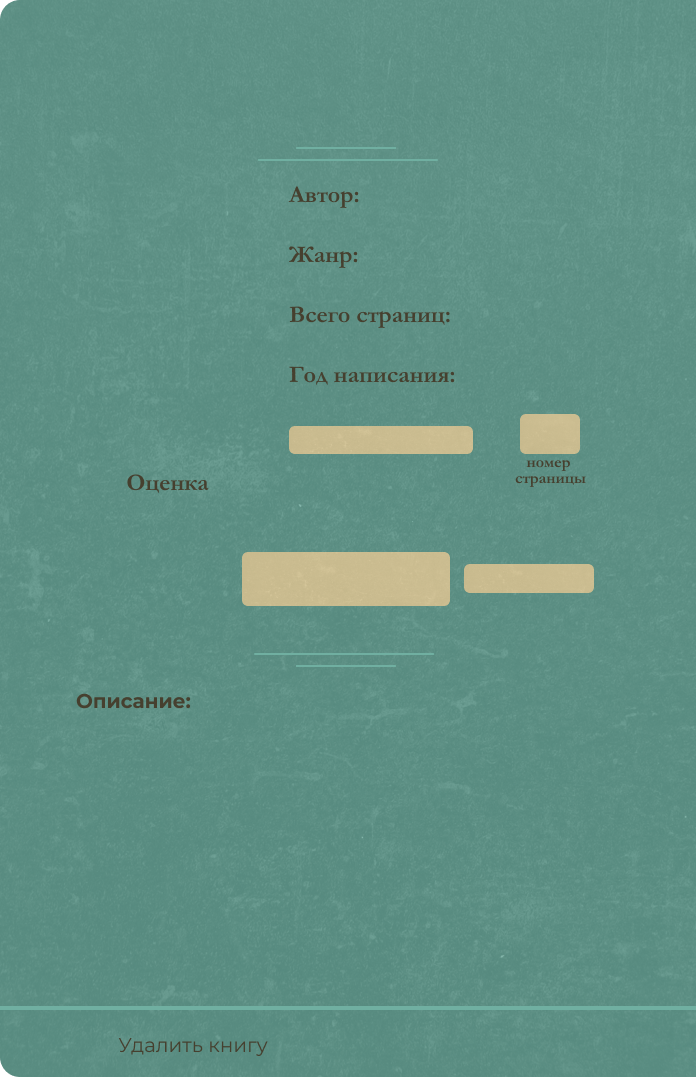
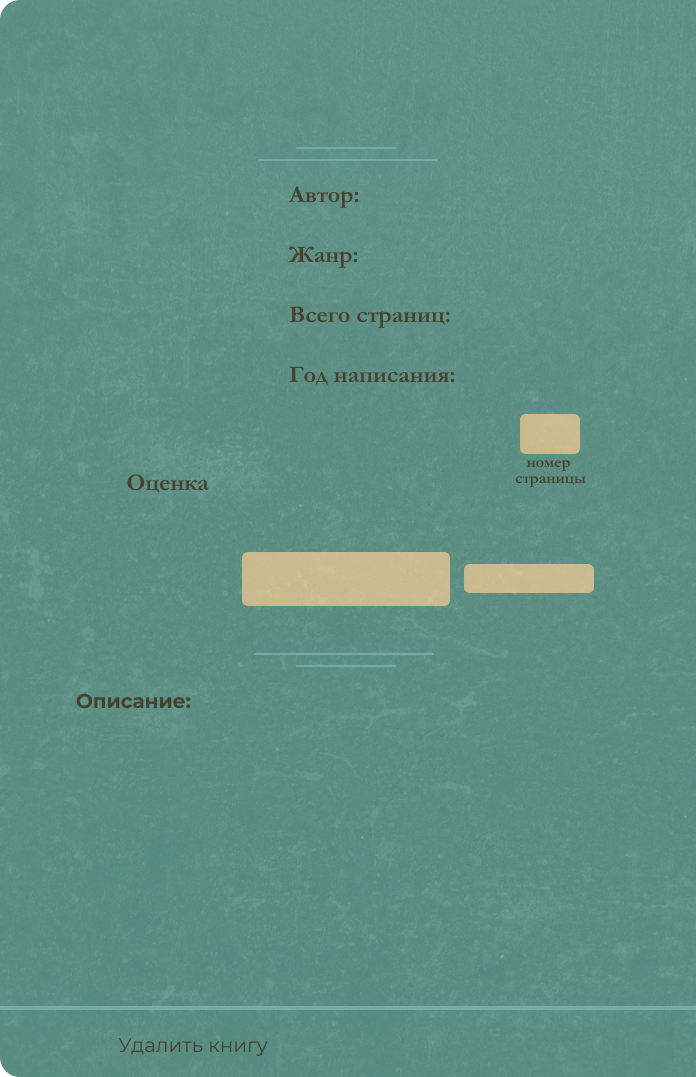
Полностью готов раздел Моя библиотека

Changed region(s): [[0.3922, 0.3983, 0.694, 0.429]]

diff --git a/main.py b/main.py
@@ -2,6 +2,10 @@ import random
 from tkinter import *
 from tkinter import ttk
 from tkinter.ttk import Combobox
+from tkinter import filedialog
+from tkinter import messagebox
+import requests
+
 
 import Book
 
@@ -22,6 +26,11 @@ menu_logo = PhotoImage(file="LibNote вёрстка/Лого меню.png")
 my_library_bg_img = PhotoImage(file="LibNote вёрстка/Моя библиотека/Доп фон моя библиотека.png")
 recomendation_bg_img = PhotoImage(file="LibNote вёрстка/Рекомендации/Фон рекомендации.png")
 book_maket = PhotoImage(file="LibNote вёрстка/Моя библиотека/Карточка книги шаблон.png")
+delete_book = PhotoImage(file='LibNote вёрстка/Моя библиотека/удалить книгу.png')
+add_book = PhotoImage(file='LibNote вёрстка/Иконка добавить.png')
+add_book_frame = PhotoImage(file='LibNote вёрстка/Моя библиотека/Добавьте книгу.png')
+icon_voice_lib = PhotoImage(file="LibNote вёрстка/Моя библиотека/Иконка добавить книгу при помощи голоса.png")
+voice_background = PhotoImage(file='LibNote вёрстка/Гс помощник/Голосовой помощник фон.png')
 # endregion
 
 background = ttk.Label(image=background_img)
@@ -50,12 +59,15 @@ with open('UserInfo.txt', mode='r') as userInfoFile:
     LibraryNowRead = [Book.Book(*i.split(',')) for i in userInfoFile.readline().split()]
     LibraryWasRead = [Book.Book(*i.split(',')) for i in userInfoFile.readline().split()]
 
-
+addBook_Frame = Frame()
 def show_frame(frame):
     global book_frame
+    global addBook_Frame
     my_library_frame.place_forget()
     recomendation_frame.place_forget()
     book_frame.place_forget()
+    addBook_Frame.place_forget()
+    voice_frame.place_forget()
     frame.place(x=328, y=47)
 
 
@@ -65,28 +77,47 @@ def makeFrameBook(book):
     def saveReadPages():
         book.readCountOfPages = cOfp.get()
 
-#todo функция для переноса из одного статуса в другой, работает с ошибкой
+    def saveMark():
+        book.mark = markBook.get()
+        update_ML_WasRead()
+        update_ML_NowRead()
+        update_ML_WillRead()
+    def deleteBook():
+        show_frame(my_library_frame)
+        if book in LibraryWasRead:
+            ML_WasRead_list.delete(LibraryWasRead.index(book))
+            ML_WasRead_Mark_list.delete(LibraryWasRead.index(book))
+            LibraryWasRead.remove(book)
+            update_ML_WasRead()
+
+        elif book in LibraryWillRead:
+            ML_WillRead_list.delete(LibraryWillRead.index(book))
+            ML_WillRead_Mark_list.delete(LibraryWillRead.index(book))
+            LibraryWillRead.remove(book)
+
+        elif book in LibraryNowRead:
+            ML_NowRead_list.delete(LibraryNowRead.index(book))
+            ML_NowRead_Mark_list.delete(LibraryNowRead.index(book))
+            LibraryNowRead.remove(book)
+
     def on_combobox_select(event):
-        true_status = 0
-        if book in LibraryWillRead: true_status = 'Запланировано'
-        if book in LibraryNowRead: true_status = 'Читаю'
-        if book in LibraryWasRead: true_status = 'Прочитано'
         if book in LibraryWillRead and status.current() != 0:
             LibraryWillRead.remove(book)
             [LibraryWillRead,LibraryNowRead,LibraryWasRead][status.current()].append(book)
-            true_status = ['Запланировано',"Читаю","Прочитано"][status.current()]
+            status.set(['Запланировано',"Читаю","Прочитано"][status.current()])
 
         elif book in LibraryNowRead and status.current() != 1:
-            LibraryWillRead.remove(book)
+            LibraryNowRead.remove(book)
             [LibraryWillRead,LibraryNowRead,LibraryWasRead][status.current()].append(book)
-            true_status = ['Запланировано',"Читаю","Прочитано"][status.current()]
+            status.set(['Запланировано',"Читаю","Прочитано"][status.current()])
 
         elif book in LibraryWasRead and status.current() != 2:
-            LibraryWillRead.remove(book)
+            LibraryWasRead.remove(book)
             [LibraryWillRead,LibraryNowRead,LibraryWasRead][status.current()].append(book)
-            true_status = ['Запланировано',"Читаю","Прочитано"][status.current()]
-
-        status.insert(true_status)
+            status.set(['Запланировано',"Читаю","Прочитано"][status.current()])
+        update_ML_WillRead()
+        update_ML_NowRead()
+        update_ML_WasRead()
 
     book_frame = Frame(width=696, height=1077, border=0, )
     canvas = Canvas(book_frame, width=696, height=721, border=0)
@@ -122,11 +153,51 @@ def makeFrameBook(book):
     (Button(scrollable_frame, text="Сохранить", font=("Montserrat Light", 8), bg="#CBBD91", fg="#46402F", border=0, command=saveReadPages)
      .place(x=595,y=425))
     Label(scrollable_frame, image=book.icon,width=184,height=274,bg="#46402F",border=0).place(x=76,y=184)
-    #todo выпадающий список статуса, работает некооректно
     status = Combobox(scrollable_frame,state="readonly", values=['Запланировано',"Читаю","Прочитано"],width=14, font=("Montserrat Regular", 12), background="#CBBD91", foreground="#46402F")
-
+    if book in LibraryWillRead: status.set('Запланировано')
+    if book in LibraryNowRead: status.set("Читаю")
+    if book in LibraryWasRead: status.set("Прочитано")
     status.bind("<<ComboboxSelected>>", on_combobox_select)
     status.place(x=289,y=426)
+
+    def readBook():
+        file_path = filedialog.askopenfilename(
+            filetypes=[("Text files", "*.txt"), ("All files", "*.*")],
+            title="Select a TXT file"
+        )
+
+        if file_path:
+            # Создаем новое окно для отображения текста
+            display_window = Toplevel(root)
+            display_window.title("Читалка")
+            display_window.geometry("800x450")
+            Label(display_window, background="#D2C2A4").pack(fill=BOTH, expand=True)
+
+            current_page_label = Label(display_window, wraplength=750,font=("Montserrat Regular", 10), bg="#D2C2A4", fg="#46402F")
+            current_page_label.place(relx=.5, rely=.5, anchor="c")
+            file = open(file_path, "r")
+            def next_page():
+                # Читаем следующие 6 строк из файла и обновляем текст current_page_label
+                current_page_label.config(text="\n".join([file.readline().strip() for _ in range(2)]))
+
+            Button(display_window, text="Далее", command=next_page).pack()
+            next_page()
+
+        else:
+            messagebox.showinfo("Info", "No file selected.")
+
+    Button(scrollable_frame,text="Читать",font=("Montserrat Bold", 24), bg="#CBBD91", fg="#46402F", border=0,activebackground="#CBBD91",activeforeground="#46402F",command=readBook).place(x=245,y=556,width=204,height=50)
+
+    Label(scrollable_frame,text=book.description[:1050], font=("Montserrat Regular", 10), bg="#5E9186", fg="#46402F",wraplength=550).place(x=99,y=727,width=550)
+
+    Button(scrollable_frame,image=delete_book, bg="#5E9186", fg="#46402F", border=0,activebackground="#5E9186",activeforeground="#46402F",command=deleteBook).place(x=81,y=1025)
+
+    markBook = Entry(scrollable_frame, width=4, font=("Montserrat Regular", 16), bg="#CBBD91", fg="#46402F", border=0)
+    markBook.insert(END, book.mark)
+    markBook.place(x=138, y=497)
+    (Button(scrollable_frame, text="Сохранить", font=("Montserrat Light", 8), bg="#CBBD91", fg="#46402F", border=0,
+            command=saveMark)
+     .place(x=138, y=550))
 
     canvas.place(x=0, y=0)
     scrollbar.place(x=680, y=0, height=721)
@@ -162,6 +233,63 @@ def Ml_list_click_WasRead(event):
     book_frame = makeFrameBook(LibraryWasRead[int(index)])
     show_frame(book_frame)
 
+def update_ML_WillRead():
+    ML_WillRead_list.delete(0, END)
+    ML_WillRead_Mark_list.delete(0, END)
+    if len(LibraryWillRead) == 0:
+        ML_WillRead_list.insert(END, "Пока тут пусто :(")
+    else:
+        for index, book in enumerate(LibraryWillRead, start=1):
+            ML_WillRead_Mark_list.insert(END, book.mark)
+            truncated_text = f"{index}. {book.title[:27]}..." if len(book.title) > 27 else f"{index}. {book.title}"
+            ML_WillRead_list.insert(END, truncated_text.ljust(45))
+def update_ML_NowRead():
+    ML_NowRead_list.delete(0, END)
+    ML_NowRead_Mark_list.delete(0, END)
+    if len(LibraryNowRead) == 0:
+        ML_NowRead_list.insert(END, "Пока тут пусто :(")
+    else:
+        for index, book in enumerate(LibraryNowRead, start=1):
+            ML_NowRead_Mark_list.insert(END, book.mark)
+            truncated_text = f"{index}. {book.title[:27]}..." if len(book.title) > 27 else f"{index}. {book.title}"
+            ML_NowRead_list.insert(END, truncated_text.ljust(45))
+def update_ML_WasRead():
+    ML_WasRead_list.delete(0, END)
+    ML_WasRead_Mark_list.delete(0, END)
+    if len(LibraryWasRead) == 0:
+        ML_WasRead_list.insert(END, "Пока тут пусто :(")
+    else:
+        for index, book in enumerate(LibraryWasRead, start=1):
+            ML_WasRead_Mark_list.insert(END, book.mark)
+            truncated_text = f"{index}. {book.title[:27]}..." if len(book.title) > 27 else f"{index}. {book.title}"
+            ML_WasRead_list.insert(END, truncated_text.ljust(45))
+
+def addBook():
+    def findIdBook():
+        id = requests.get(f"https://www.googleapis.com/books/v1/volumes?q={nameAddBook.get().replace(' ', '_')}")
+        if id.status_code == 200:
+            id = id.json()['items'][0]['id']
+            LibraryWillRead.append(Book.Book(id= id,mark='-',readCountOfPages='0'))
+            update_ML_WillRead()
+            show_frame(makeFrameBook(LibraryWillRead[-1]))
+
+        else:
+            print(f'Error: {id.status_code}')
+
+    global addBook_Frame
+    addBook_Frame = Frame(root,width=696, height=675)
+    Label(addBook_Frame, image=add_book_frame,background='#DFD0B0').pack()
+    nameAddBook = Entry(addBook_Frame, width=20,background='#5E9186',font=("Montserrat Medium", 20),foreground="#46402F")
+
+    nameAddBook.place(x=170,y=338)
+
+    (Button(addBook_Frame, text="Добавить", font=("Montserrat Light", 8), bg="#CBBD91", fg="#46402F", border=0,
+            command=findIdBook)
+     .place(x=80, y=348))
+
+    Button(addBook_Frame, image=icon_voice_lib, bg="#5E9186", fg="#46402F", border=0,activebackground='#5E9186',activeforeground="#46402F",command=lambda: show_frame(voice_frame)).place(x=250, y=430)
+
+    show_frame(addBook_Frame)
 
 # region Menu
 menu_frame = Frame(width=281, height=771, border=0)
@@ -198,13 +326,7 @@ ML_WillRead_Mark_list = Listbox(my_library_frame, selectmode=SINGLE, border=0, b
                                 selectbackground='#5E9186')
 ML_WillRead_list.bind('<<ListboxSelect>>', lambda event: Ml_list_click_WillRead(event))
 
-if len(LibraryWillRead) == 0:
-    ML_WillRead_list.insert(END, "Пока тут пусто :(")
-else:
-    for index, book in enumerate(LibraryWillRead, start=1):
-        ML_WillRead_Mark_list.insert(END, book.mark)
-        truncated_text = f"{index}. {book.title[:27]}..." if len(book.title) > 27 else f"{index}. {book.title}"
-        ML_WillRead_list.insert(END, truncated_text.ljust(45))
+update_ML_WillRead()
 
 scrollbar_willRead = Scrollbar(my_library_frame, orient="vertical")
 scrollbar_willRead.config(command=lambda *args: (ML_WillRead_list.yview(*args), ML_WillRead_Mark_list.yview(*args)))
@@ -228,13 +350,7 @@ ML_NowRead_Mark_list = Listbox(my_library_frame, selectmode=SINGLE, border=0, bg
                                selectbackground='#5E9186')
 ML_NowRead_list.bind('<<ListboxSelect>>', lambda event: Ml_list_click_NowRead(event))
 
-if len(LibraryNowRead) == 0:
-    ML_NowRead_list.insert(END, "Пока тут пусто :(")
-else:
-    for index, book in enumerate(LibraryNowRead, start=1):
-        ML_NowRead_Mark_list.insert(END, book.mark)
-        truncated_text = f"{index}. {book.title[:27]}..." if len(book.title) > 27 else f"{index}. {book.title}"
-        ML_NowRead_list.insert(END, truncated_text.ljust(45))
+update_ML_NowRead()
 
 scrollbar_NowRead = Scrollbar(my_library_frame, orient="vertical")
 scrollbar_NowRead.config(command=lambda *args: (ML_NowRead_list.yview(*args), ML_NowRead_Mark_list.yview(*args)))
@@ -260,13 +376,7 @@ ML_WasRead_Mark_list = Listbox(my_library_frame, selectmode=SINGLE, border=0, bg
 
 ML_WasRead_list.bind('<<ListboxSelect>>', lambda event: Ml_list_click_WasRead(event))
 
-if len(LibraryWasRead) == 0:
-    ML_WasRead_list.insert(END, "Пока тут пусто :(")
-else:
-    for index, book in enumerate(LibraryWasRead, start=1):
-        ML_WasRead_Mark_list.insert(END, book.mark)
-        truncated_text = f"{index}. {book.title[:27]}..." if len(book.title) > 27 else f"{index}. {book.title}"
-        ML_WasRead_list.insert(END, truncated_text.ljust(45))
+update_ML_WasRead()
 
 scrollbar_WasRead = Scrollbar(my_library_frame, orient="vertical")
 scrollbar_WasRead.config(command=lambda *args: (ML_WasRead_list.yview(*args), ML_WasRead_Mark_list.yview(*args)))
@@ -281,10 +391,18 @@ ML_WasRead_Mark_list.config(yscrollcommand=scrollbar_WasRead.set)
 ML_WasRead_list.bind("<MouseWheel>", on_mousewheel)
 ML_WasRead_Mark_list.bind("<MouseWheel>", on_mousewheel)
 
+(Button(my_library_frame,image=add_book, bg="#5E9186", fg="#46402F", border=0,activebackground='#5E9186',activeforeground="#46402F",command=addBook)
+ .place(x=316,y=607))
+
+
+
 # endregion
 
 recomendation_frame = Frame(width=696, height=675, border=0)
 ttk.Label(recomendation_frame, image=recomendation_bg_img, background='#DFD0B0').place(x=0, y=0)
+
+voice_frame = Frame(width=696, height=675, border=0)
+ttk.Label(voice_frame, image=voice_background, background='#DFD0B0').place(x=0, y=0)
 
 root.protocol("WM_DELETE_WINDOW", on_closing)
 root.mainloop()

diff --git a/Book.py b/Book.py
@@ -24,7 +24,8 @@ class Book:
         self.publishedDate = self.all_info['volumeInfo'].get("publishedDate",'Нет информации')
         self.description = self.all_info['volumeInfo'].get("description",'Нет информации')
 
-        response = requests.get(self.all_info['volumeInfo']['imageLinks'].get("thumbnail"))
-        image_data = BytesIO(response.content)
-        image = Image.open(image_data).resize((184,274))
-        self.icon = ImageTk.PhotoImage(image)
+        response = requests.get(self.all_info['volumeInfo']['imageLinks'].get("thumbnail",None))
+        if response != None:
+            image_data = BytesIO(response.content)
+            image = Image.open(image_data).resize((184,274))
+            self.icon = ImageTk.PhotoImage(image)
